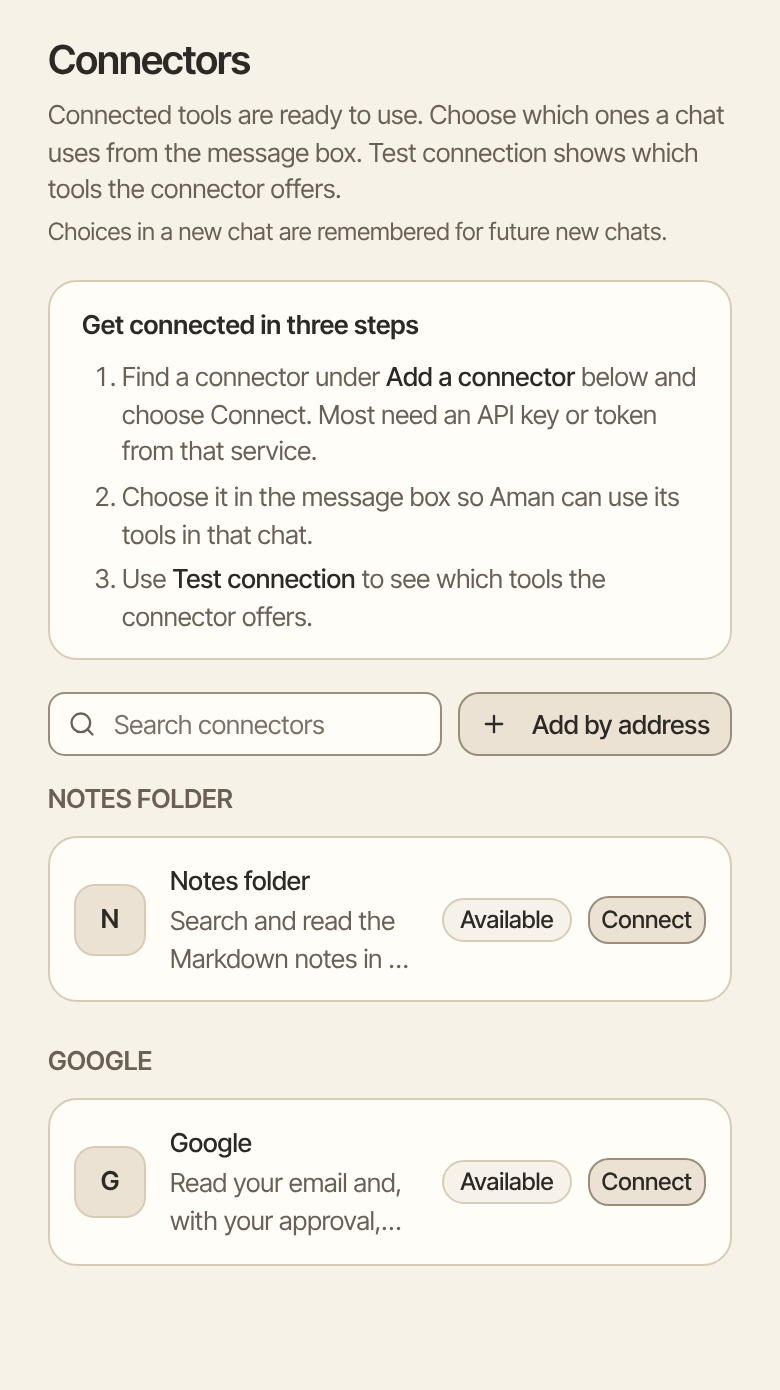
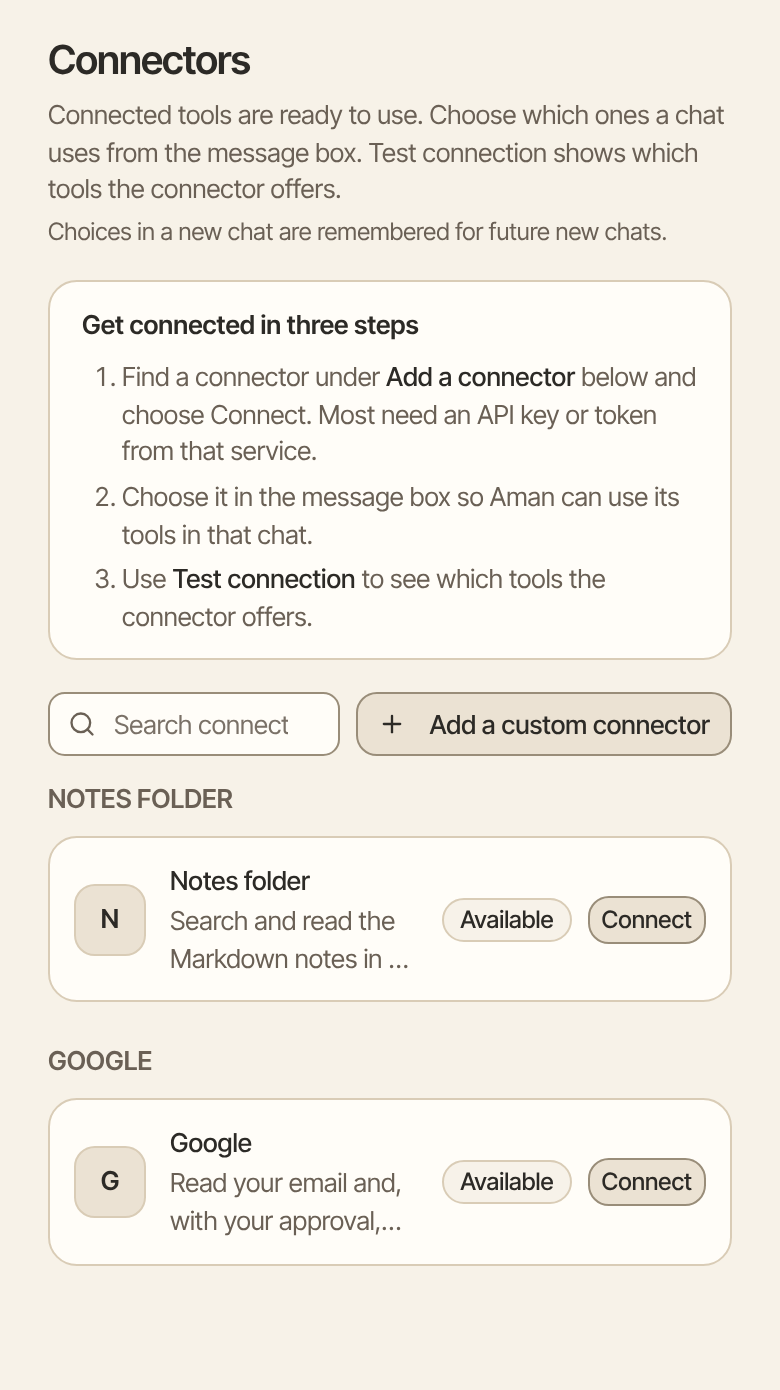
Name the connector button "Add a custom connector"

Changed region(s): [[0.3692, 0.495, 0.9231, 0.5568]]

diff --git a/packages/trueforge/src/personas/amanGuide/knowledgePack.generated.ts b/packages/trueforge/src/personas/amanGuide/knowledgePack.generated.ts
@@ -662,19 +662,19 @@ export const AMAN_GUIDE_TOPICS: readonly AmanGuideTopic[] = [
     id: 'docs-mcp-servers-2',
     title: "Other connectors: What's on the Connectors page",
     covers: [],
-    body: "- **Configured:** the connectors you already set up, with whether each one works.\n- **Add a connector:** a ready-made list of services. Next to each one, a small label says how it signs in: **None**, **API Key** or **OAuth2** (a sign-in window from the service).\n- **Search connectors:** a box to find a connector by name.\n- **Add by address:** a button to add a service that isn't on the list, by its address.\n\nSome connectors are technically called MCP servers. MCP is the common language Aman uses to talk to these services.\n\nPublic source: https://github.com/ClimbOutLabs/amanuensis/blob/main/docs/mcp-servers.mdx",
+    body: "- **Configured:** the connectors you already set up, with whether each one works.\n- **Add a connector:** a ready-made list of services. Next to each one, a small label says how it signs in: **None**, **API Key** or **OAuth2** (a sign-in window from the service).\n- **Search connectors:** a box to find a connector by name.\n- **Add a custom connector:** a button to add a service that isn't on the list, by its address.\n\nSome connectors are technically called MCP servers. MCP is the common language Aman uses to talk to these services.\n\nPublic source: https://github.com/ClimbOutLabs/amanuensis/blob/main/docs/mcp-servers.mdx",
   },
   {
     id: 'docs-mcp-servers-3',
     title: 'Other connectors: Add a connector from the list',
     covers: [],
-    body: "1. Click **More** in the left bar, then **Settings**, then **Connectors**.\n2. Find the service under **Add a connector**, or type its name in **Search connectors**.\n3. Click **Connect** or **Add** next to it. What happens next depends on how the service signs in:\n\n=== \"API key or token\"\n\n    The button says **Connect**. A box opens.\n\n    1. Make a key or token in the service's own settings. Give it only the access Aman needs.\n    2. Paste it in **API key / token**.\n    3. Click **Connect**.\n\n=== \"Sign-in window\"\n\n    The button says **Add**. The connector is added, but not signed in yet.\n\n    1. Click the connector under **Configured** to open it.\n    2. Click **Connect**.\n    3. Sign in to the service in the window that opens, and allow access.\n\n    <a id=\"in-chat-authentication\"></a>You can also leave it for later. The first time a chat needs the connector, the chat pauses and shows a **Connect** button. Sign in, then click **Continue**, and the chat carries on.\n\n=== \"No sign-in\"\n\n    The button says **Connect**. The connector is added straight away.\n\n### Notion\n\n1. Find **notion** and click **Add**.\n2. Click the notion connector under **Configured**, then click **Connect**.\n3. Sign in to Notion in the window that opens, and pick your workspace.\n\nSigning in gives Aman the same access you have in Notion. Aman can then reach any page or database you can open, search and read them, and make new ones.\n\n### GitHub\n\n1. In GitHub, open your settings, then Developer settings, then Personal access tokens. Make a fine-grained token, with only the repositories and permissions Aman needs.\n2. In Aman, find **github** and click **Connect**.\n3. Paste the token and click **Connect**.\n\nAman can then work with your issues, pull requests, repository files and CI status.\n\n### Home Assistant\n\n**home-assistant** connects to your own Home Assistant, with its address and a long-lived access token. See [Home Assistant](connectors/home-assistant.md) for the steps, and for what Aman may and may not do in your home.\n\n### Slack\n\nThere's no Slack on the list, because Slack's server can't set up its own sign-in. To use Slack:\n\n1. Make your own Slack app with MCP turned on, following Slack's MCP guide.\n2. In Aman, click **Add by address** and choose **OAuth (manual)**.\n3. Type the server address from Slack's guide, and paste your app's **Client ID** and **Client Secret**.\n\nSlack's tools read and post as you. Connecting Slack doesn't make Slack a way to chat with Aman.\n\nPublic source: https://github.com/ClimbOutLabs/amanuensis/blob/main/docs/mcp-servers.mdx",
+    body: "1. Click **More** in the left bar, then **Settings**, then **Connectors**.\n2. Find the service under **Add a connector**, or type its name in **Search connectors**.\n3. Click **Connect** or **Add** next to it. What happens next depends on how the service signs in:\n\n=== \"API key or token\"\n\n    The button says **Connect**. A box opens.\n\n    1. Make a key or token in the service's own settings. Give it only the access Aman needs.\n    2. Paste it in **API key / token**.\n    3. Click **Connect**.\n\n=== \"Sign-in window\"\n\n    The button says **Add**. The connector is added, but not signed in yet.\n\n    1. Click the connector under **Configured** to open it.\n    2. Click **Connect**.\n    3. Sign in to the service in the window that opens, and allow access.\n\n    <a id=\"in-chat-authentication\"></a>You can also leave it for later. The first time a chat needs the connector, the chat pauses and shows a **Connect** button. Sign in, then click **Continue**, and the chat carries on.\n\n=== \"No sign-in\"\n\n    The button says **Connect**. The connector is added straight away.\n\n### Notion\n\n1. Find **notion** and click **Add**.\n2. Click the notion connector under **Configured**, then click **Connect**.\n3. Sign in to Notion in the window that opens, and pick your workspace.\n\nSigning in gives Aman the same access you have in Notion. Aman can then reach any page or database you can open, search and read them, and make new ones.\n\n### GitHub\n\n1. In GitHub, open your settings, then Developer settings, then Personal access tokens. Make a fine-grained token, with only the repositories and permissions Aman needs.\n2. In Aman, find **github** and click **Connect**.\n3. Paste the token and click **Connect**.\n\nAman can then work with your issues, pull requests, repository files and CI status.\n\n### Home Assistant\n\n**home-assistant** connects to your own Home Assistant, with its address and a long-lived access token. See [Home Assistant](connectors/home-assistant.md) for the steps, and for what Aman may and may not do in your home.\n\n### Slack\n\nThere's no Slack on the list, because Slack's server can't set up its own sign-in. To use Slack:\n\n1. Make your own Slack app with MCP turned on, following Slack's MCP guide.\n2. In Aman, click **Add a custom connector** and choose **OAuth (manual)**.\n3. Type the server address from Slack's guide, and paste your app's **Client ID** and **Client Secret**.\n\nSlack's tools read and post as you. Connecting Slack doesn't make Slack a way to chat with Aman.\n\nPublic source: https://github.com/ClimbOutLabs/amanuensis/blob/main/docs/mcp-servers.mdx",
   },
   {
     id: 'docs-mcp-servers-4',
-    title: 'Other connectors: Add a connector by its address',
+    title: 'Other connectors: Add a custom connector',
     covers: [],
-    body: "Use this for a service that isn't on the list. The service gives you its address, which often ends in `/mcp`.\n\nThe address can be on the internet or on your home network. A service on the same computer as Aman can't be added here. See [Which addresses a connector may use](#which-addresses-a-connector-may-use) below.\n\n1. Click **Add by address**.\n2. Type a **Name** and a short **Description**.\n3. Paste the address in **URL**.\n4. Under **Auth type**, choose how the service signs in. The service's own help says which one to pick:\n    - **None:** the service needs no sign-in.\n    - **API key:** paste the key or token from the service. **Header name** is optional. Leave it empty unless the service names one.\n    - **OAuth (automatic):** you sign in through a window, and Aman sets up the rest.\n    - **OAuth (manual):** paste the **Client ID** and **Client Secret** from the service. **Scopes** are optional.\n5. Click **Add**.\n\nPublic source: https://github.com/ClimbOutLabs/amanuensis/blob/main/docs/mcp-servers.mdx",
+    body: "Use this for a service that isn't on the list. The service gives you its address, which often ends in `/mcp`.\n\nThe address can be on the internet or on your home network. A service on the same computer as Aman can't be added here. See [Which addresses a connector may use](#which-addresses-a-connector-may-use) below.\n\n1. Click **Add a custom connector**.\n2. Type a **Name** and a short **Description**.\n3. Paste the address in **URL**.\n4. Under **Auth type**, choose how the service signs in. The service's own help says which one to pick:\n    - **None:** the service needs no sign-in.\n    - **API key:** paste the key or token from the service. **Header name** is optional. Leave it empty unless the service names one.\n    - **OAuth (automatic):** you sign in through a window, and Aman sets up the rest.\n    - **OAuth (manual):** paste the **Client ID** and **Client Secret** from the service. **Scopes** are optional.\n5. Click **Add**.\n\nPublic source: https://github.com/ClimbOutLabs/amanuensis/blob/main/docs/mcp-servers.mdx",
   },
   {
     id: 'docs-mcp-servers-5',

diff --git a/packages/trueforge-ui/src/containers/SettingsBuilder/AddMcpServerForm.tsx b/packages/trueforge-ui/src/containers/SettingsBuilder/AddMcpServerForm.tsx
@@ -194,7 +194,7 @@ const AddMcpServerForm = ({
     }
   };
 
-  const resolvedTitle = title ?? (editing ? 'Edit connector' : 'Add a connector by its address');
+  const resolvedTitle = title ?? (editing ? 'Edit connector' : 'Add a custom connector');
   const resolvedDescription =
     modalDescription ??
     (editing

diff --git a/packages/trueforge-ui/src/containers/SettingsBuilder/ConnectorSettings.tsx b/packages/trueforge-ui/src/containers/SettingsBuilder/ConnectorSettings.tsx
@@ -933,7 +933,7 @@ const ConnectorSettings = () => {
               }}
             >
               <Icon name="plus" size="1rem" className="mr-1" />
-              Add by address
+              Add a custom connector
             </Button>
           </div>
 
